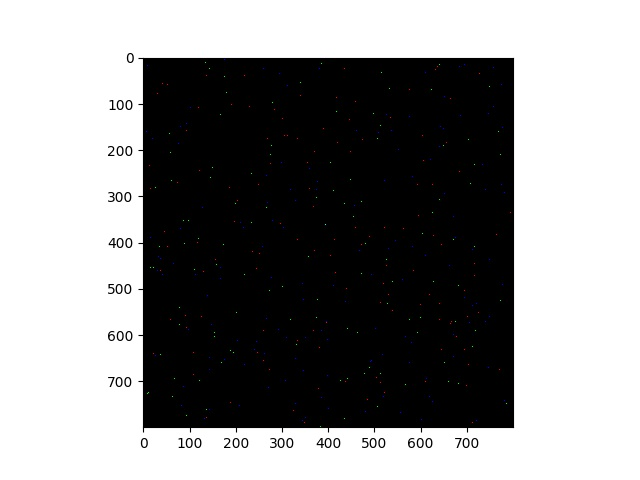
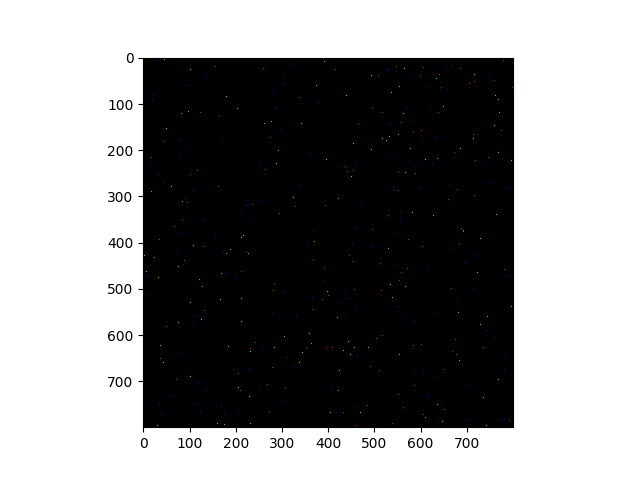
further refined PGD parameters

diff --git a/main.py b/main.py
@@ -15,8 +15,6 @@ from cleverhans.torch.attacks.projected_gradient_descent import (
 
 device = "cuda" if torch.cuda.is_available() else "cpu"
 
-P = 10
-alpha = .01 # Percentage of permutated pixels
 mobilenet_mean=[0.485, 0.456, 0.406]
 mobilenet_std=[0.229, 0.224, 0.225]
 
@@ -120,7 +118,7 @@ def cleverhans_pgd(x):
     # Run through PGD
     epsilon = 8/255
     epsilon_iter = 2/225
-    nb_iter = 40
+    nb_iter = 100
     x = projected_gradient_descent(model, x, epsilon, epsilon_iter, nb_iter, np.inf)
     #x = fast_gradient_method(model, x, epsilon, np.inf)
 
